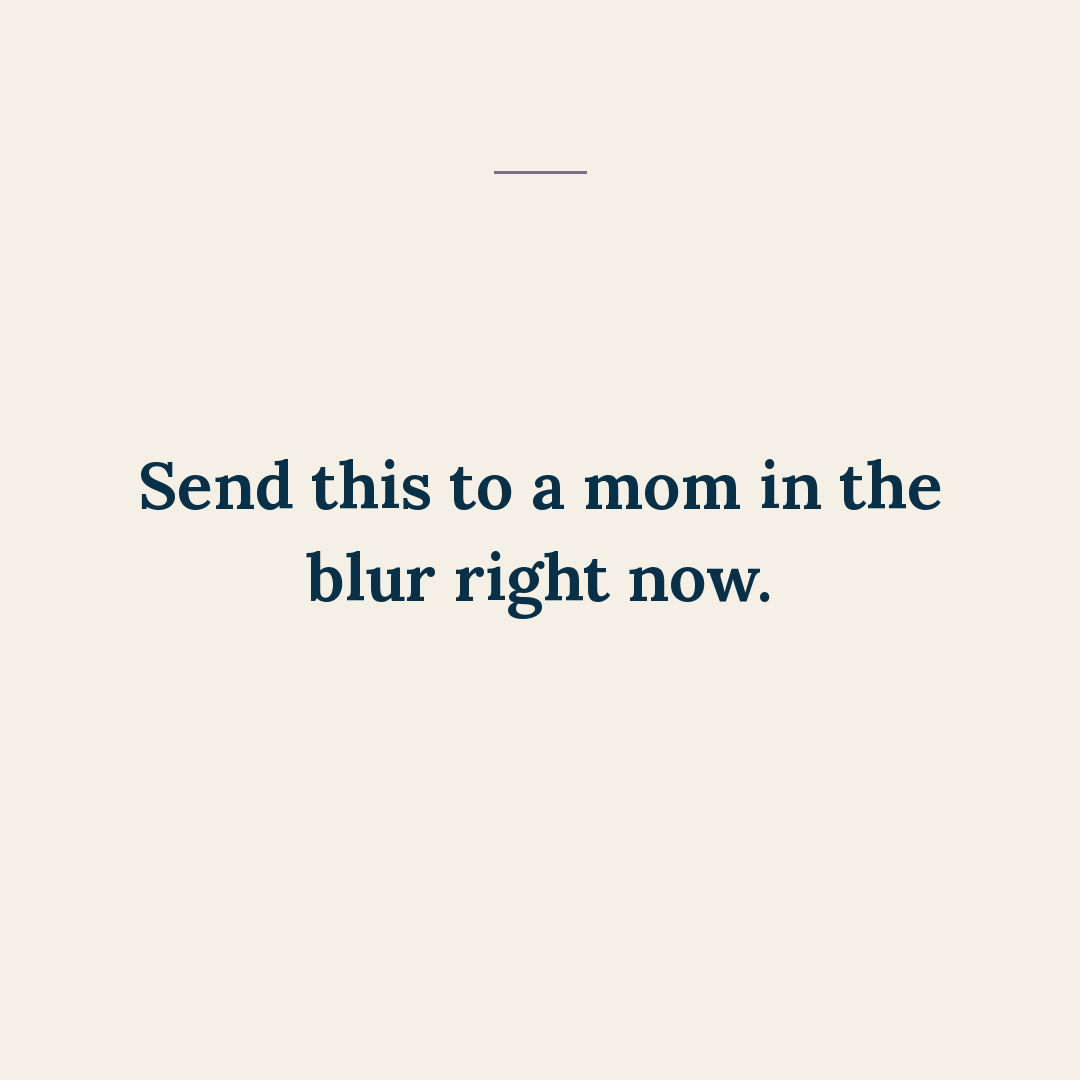
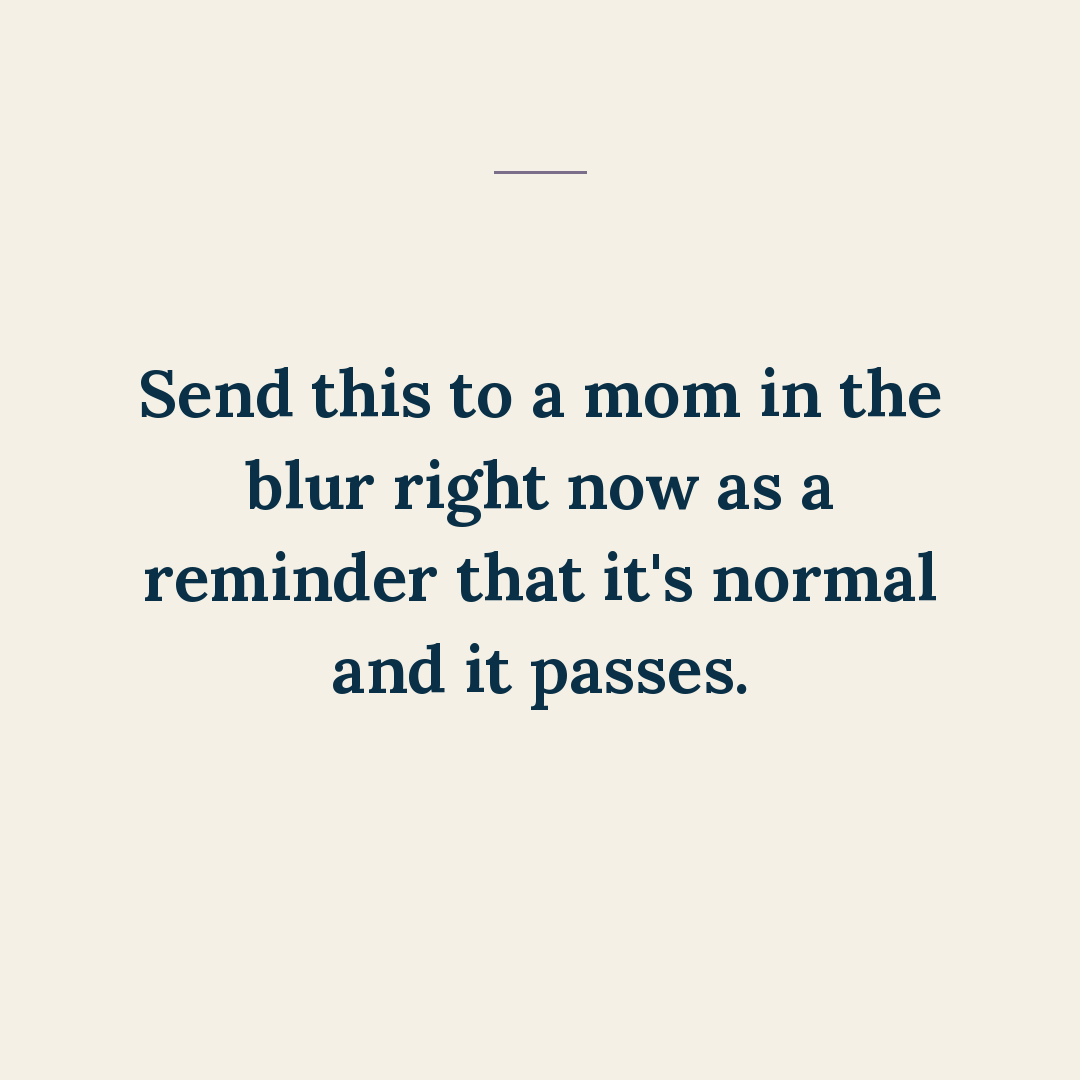
Add 57-newborn-days-blurring-together (57 - Newborn Days Blurring Together)

Changed region(s): [[0.1222, 0.4278, 0.8861, 0.6722], [0.1222, 0.3361, 0.8861, 0.3972]]

diff --git a/posts/57-newborn-days-blurring-together/slides.md b/posts/57-newborn-days-blurring-together/slides.md
@@ -13,6 +13,8 @@ If the newborn days are all blurring together…
 05  This blur has an end date, even when it doesn't feel like it
 
 ## Closer (share)
-Send this to a mom in the blur right now.
+Send this to a mom in the blur right now as a reminder that it's normal and it passes.
+
+REVISED 2026-08-16 per Ben's review (closer wording only).
 
 Render with render_cover / render_items_for_post / render_follow, weight 650, bg BG_CREAM.
